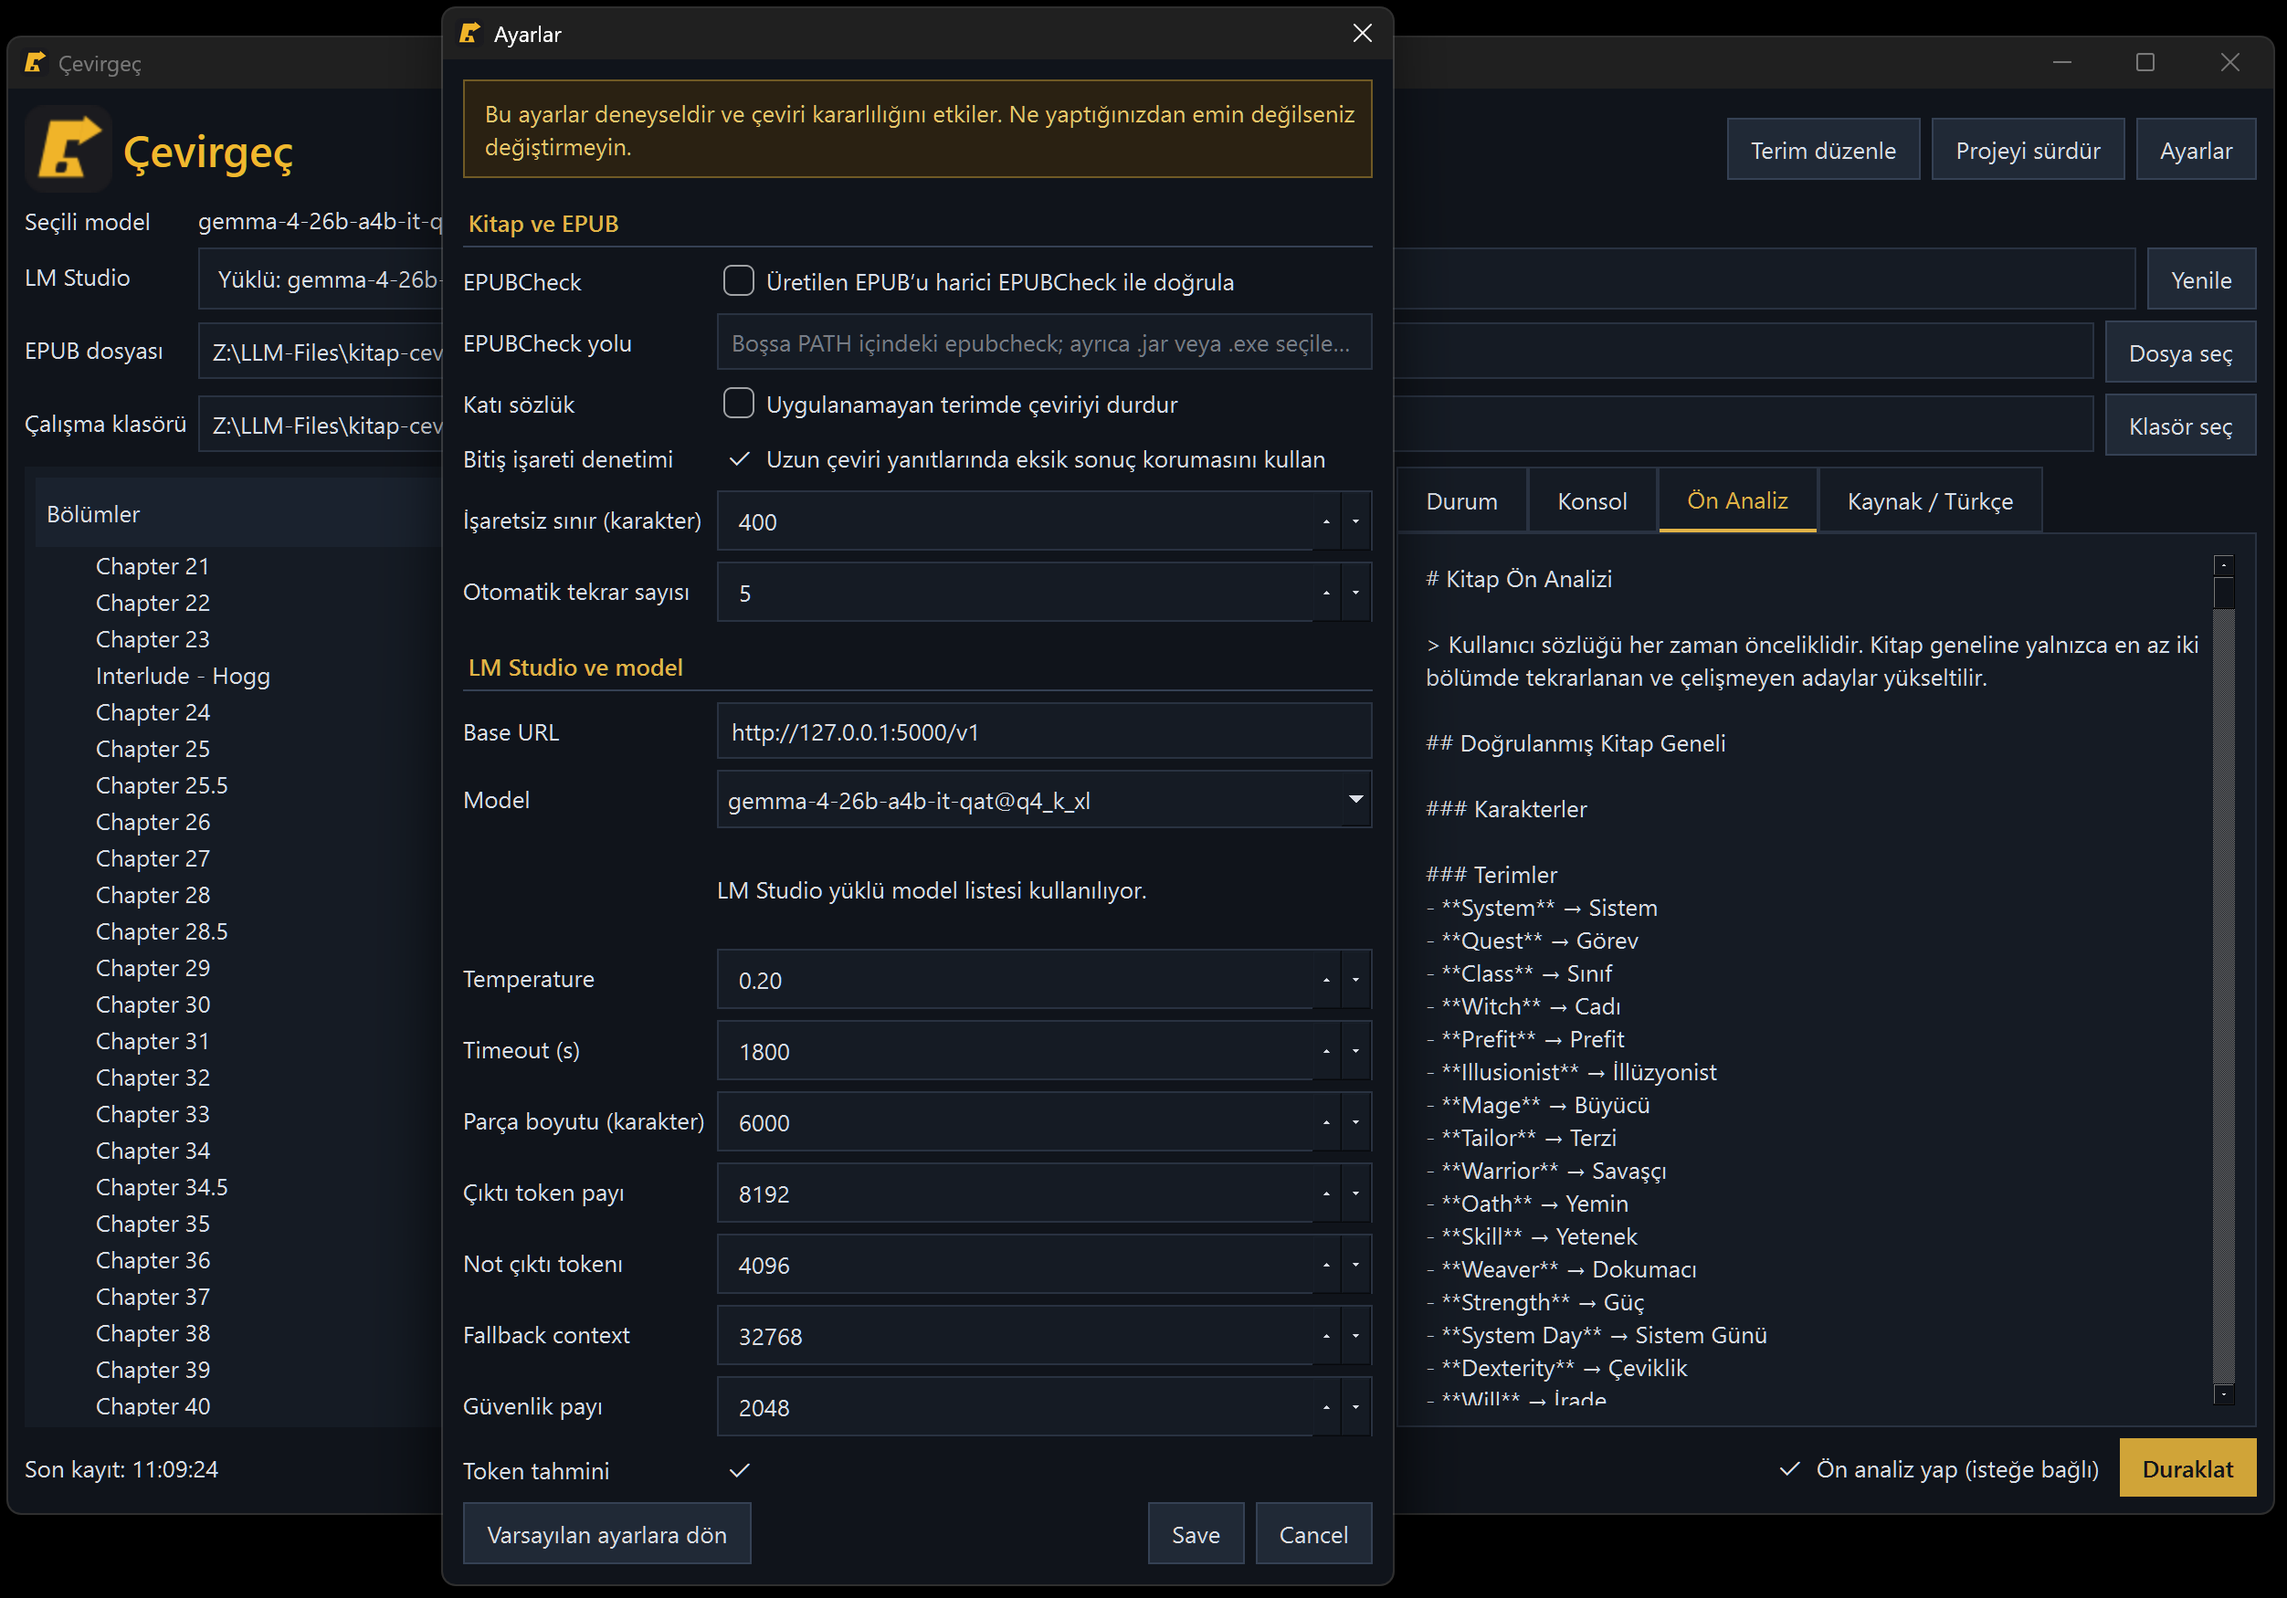
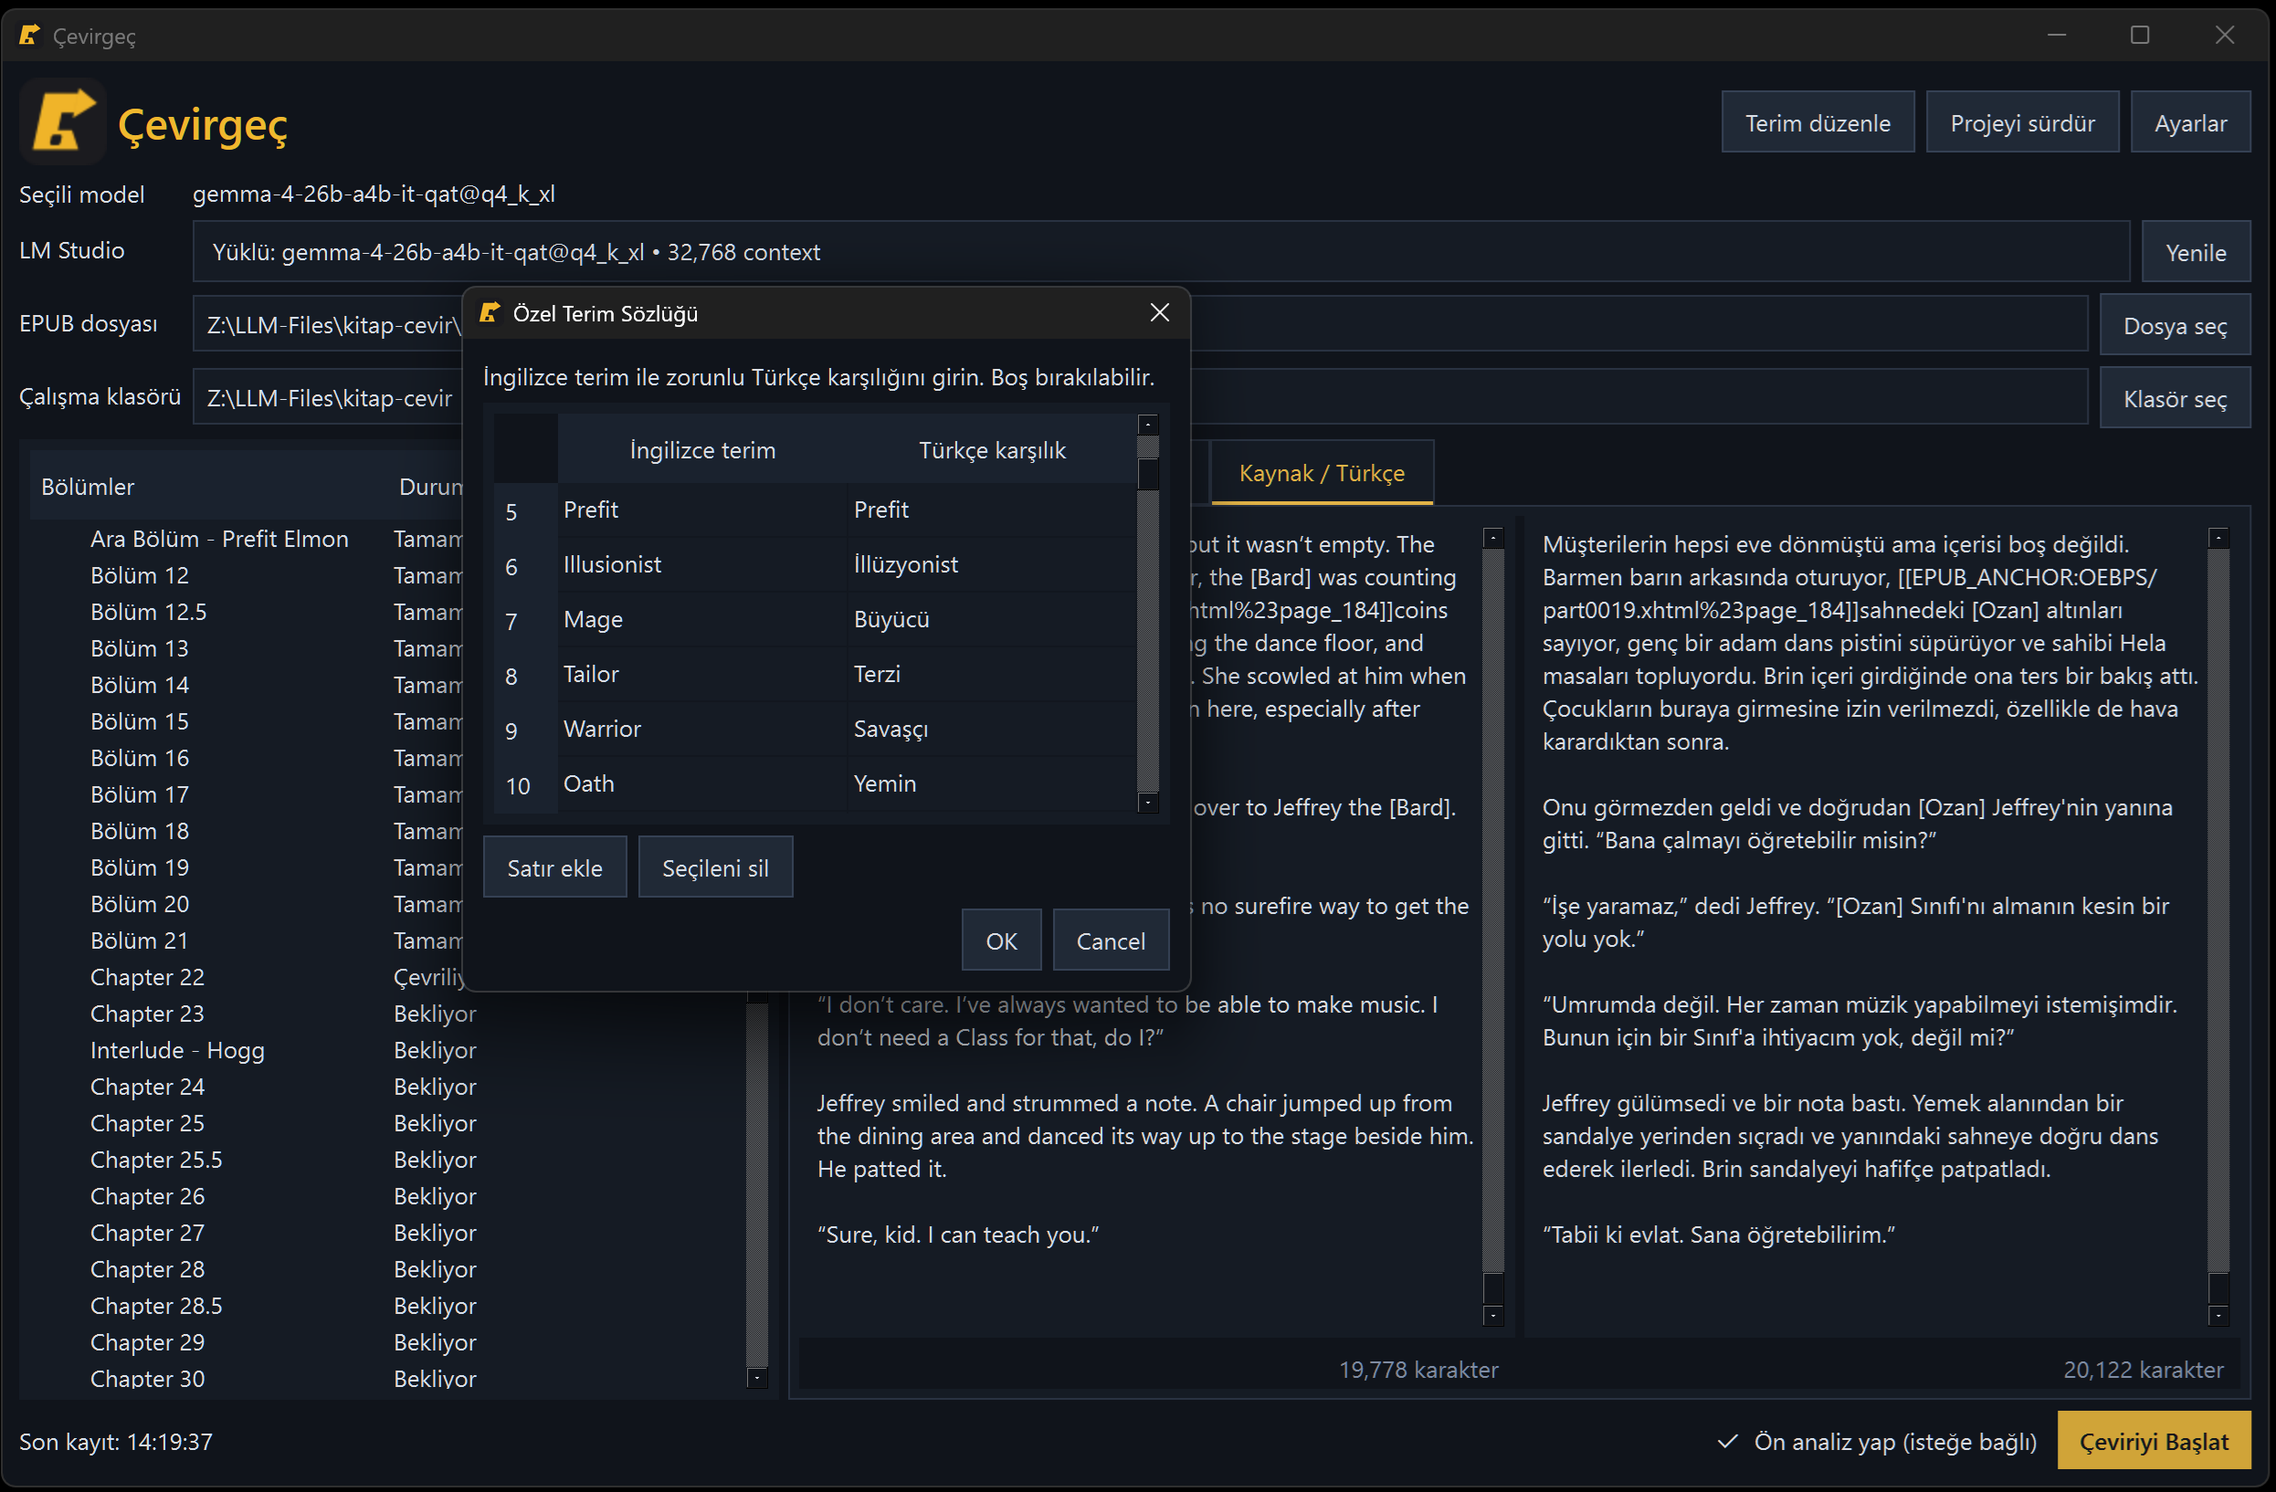
some ui fixes

Changed region(s): [[0.0, 0.0, 1.0, 0.9988]]

diff --git a/gui.py b/gui.py
@@ -231,11 +231,9 @@ class AnalysisSelectionDialog(QDialog):
 
 
 class SettingsDialog(QDialog):
-    def __init__(self, config, loaded_models=None, parent=None):
+    def __init__(self, config, loaded_models=None, parent=None, locked=False):
         super().__init__(parent); self.setWindowTitle('Ayarlar'); self.resize(520, 0)
         outer = QVBoxLayout(self)
-        warning = QLabel('Bu ayarlar deneyseldir ve çeviri kararlılığını etkiler. Ne yaptığınızdan emin değilseniz değiştirmeyin.')
-        warning.setObjectName('settingsWarning'); warning.setWordWrap(True); outer.addWidget(warning)
         layout = QFormLayout(); outer.addLayout(layout); self.fields = {}
 
         book_section = QLabel('Kitap ve EPUB'); book_section.setObjectName('settingsSection'); layout.addRow(book_section)
@@ -287,9 +285,8 @@ class SettingsDialog(QDialog):
         model.setCurrentIndex(configured_index if configured_index >= 0 else 0)
         model.setToolTip('LM Studio tarafından yüklü bildirilen modeller arasından seçim yapılır.')
         self.fields['model'] = model; layout.addRow('Model', model)
-        model_note = QLabel('LM Studio yüklü model listesi kullanılıyor.' if self.loaded_models else
-                            'Yüklü model listesi alınamadı; mevcut ve varsayılan model gösteriliyor.')
-        model_note.setWordWrap(True); layout.addRow('', model_note)
+        warning = QLabel('Bu ayarlar deneyseldir ve çeviri kararlılığını etkiler. Ne yaptığınızdan emin değilseniz değiştirmeyin.')
+        warning.setObjectName('settingsWarning'); warning.setWordWrap(True); layout.addRow(warning)
         temperature = QDoubleSpinBox(); temperature.setRange(0, 2); temperature.setSingleStep(.05); temperature.setValue(float(config['temperature']))
         self.fields['temperature'] = temperature; layout.addRow('Temperature', temperature)
         for key, title, maximum in (
@@ -304,6 +301,13 @@ class SettingsDialog(QDialog):
         buttons = QDialogButtonBox(QDialogButtonBox.Save | QDialogButtonBox.Cancel)
         buttons.accepted.connect(self.accept); buttons.rejected.connect(self.reject)
         bottom = QHBoxLayout(); bottom.addWidget(restore); bottom.addStretch(); bottom.addWidget(buttons); outer.addLayout(bottom)
+        # G43: ceviri surerken LM Studio/model alanlari degistirilemez.
+        if locked:
+            for key in ('base_url', 'model', 'temperature', 'timeout_seconds', 'chunk_chars',
+                        'max_tokens', 'notes_max_tokens', 'fallback_context_length',
+                        'context_safety_tokens', 'token_estimation_enabled'):
+                self.fields[key].setEnabled(False)
+            restore.setEnabled(False)
 
     def reset_defaults(self):
         for key, field in self.fields.items():
@@ -426,9 +430,20 @@ class MainWindow(QMainWindow):
         self.analysis_preview = QPlainTextEdit(); self.analysis_preview.setReadOnly(True)
         self.analysis_preview.setPlainText('Ön analiz seçilirse sonuç burada gösterilir.')
         self.tabs.addTab(self.analysis_preview, 'Ön Analiz')
-        preview = QSplitter(Qt.Horizontal); self.source_preview = QPlainTextEdit(); self.translation_preview = QPlainTextEdit()
-        self.source_preview.setReadOnly(True); self.translation_preview.setReadOnly(True)
-        preview.addWidget(self.source_preview); preview.addWidget(self.translation_preview); self.tabs.addTab(preview, 'Kaynak / Türkçe')
+        preview = QSplitter(Qt.Horizontal)
+        self.source_preview = QPlainTextEdit(); self.source_preview.setReadOnly(True)
+        self.translation_preview = QPlainTextEdit(); self.translation_preview.setReadOnly(True)
+        self.source_count = QLabel('0 karakter'); self.source_count.setAlignment(Qt.AlignRight)
+        self.translation_count = QLabel('0 karakter'); self.translation_count.setAlignment(Qt.AlignRight)
+        for count_label in (self.source_count, self.translation_count):
+            count_label.setStyleSheet('color:#7f8ca3; padding:2px 6px;')
+        source_panel = QWidget(); source_panel.setLayout(QVBoxLayout())
+        source_panel.layout().setContentsMargins(0, 0, 0, 0)
+        source_panel.layout().addWidget(self.source_preview, 1); source_panel.layout().addWidget(self.source_count)
+        translation_panel = QWidget(); translation_panel.setLayout(QVBoxLayout())
+        translation_panel.layout().setContentsMargins(0, 0, 0, 0)
+        translation_panel.layout().addWidget(self.translation_preview, 1); translation_panel.layout().addWidget(self.translation_count)
+        preview.addWidget(source_panel); preview.addWidget(translation_panel); self.tabs.addTab(preview, 'Kaynak / Türkçe')
         bottom = QHBoxLayout(); self.last_saved = QLabel('Son kayıt: —'); bottom.addWidget(self.last_saved); bottom.addStretch()
         self.pre_analysis = QCheckBox('Ön analiz yap (isteğe bağlı)')
         self.pre_analysis.setChecked(False)
@@ -443,6 +458,7 @@ class MainWindow(QMainWindow):
         if self.book is None: return
         self.book = None; self.tree.clear(); self.tree_items = {}
         self.source_preview.clear(); self.translation_preview.clear()
+        self.source_count.setText('0 karakter'); self.translation_count.setText('0 karakter')
         self.refresh_analysis_preview(); self.phase.setText('Başlatılmadı'); self.current.setText('Bölüm seçilmedi')
         self.set_progress_value(0)
 
@@ -477,7 +493,8 @@ class MainWindow(QMainWindow):
         self.populate_tree(); self.refresh_analysis_preview(); self.phase.setText('Mevcut proje hazır')
 
     def show_settings(self):
-        dialog = SettingsDialog(load_config(), self.loaded_models, self)
+        dialog = SettingsDialog(load_config(), self.loaded_models, self,
+                                locked=self.runtime_state in ('running', 'pausing', 'closing'))
         if dialog.exec() != QDialog.Accepted: return
         try:
             from app_core import validate_config
@@ -597,9 +614,13 @@ class MainWindow(QMainWindow):
         if not selected or not self.book: return
         filename = selected[0].data(0, Qt.UserRole)
         if not filename: return
-        self.source_preview.setPlainText(read(self.book / 'source' / filename))
+        source_text = read(self.book / 'source' / filename)
+        self.source_preview.setPlainText(source_text)
         target = self.book / 'translation' / filename
-        self.translation_preview.setPlainText(read(target) if target.exists() else 'Henüz çevrilmedi.')
+        translated_text = read(target) if target.exists() else 'Henüz çevrilmedi.'
+        self.translation_preview.setPlainText(translated_text)
+        self.source_count.setText(f'{len(source_text):,} karakter')
+        self.translation_count.setText(f'{len(translated_text):,} karakter')
         self.tabs.setCurrentIndex(3)
 
     def refresh_analysis_preview(self):
